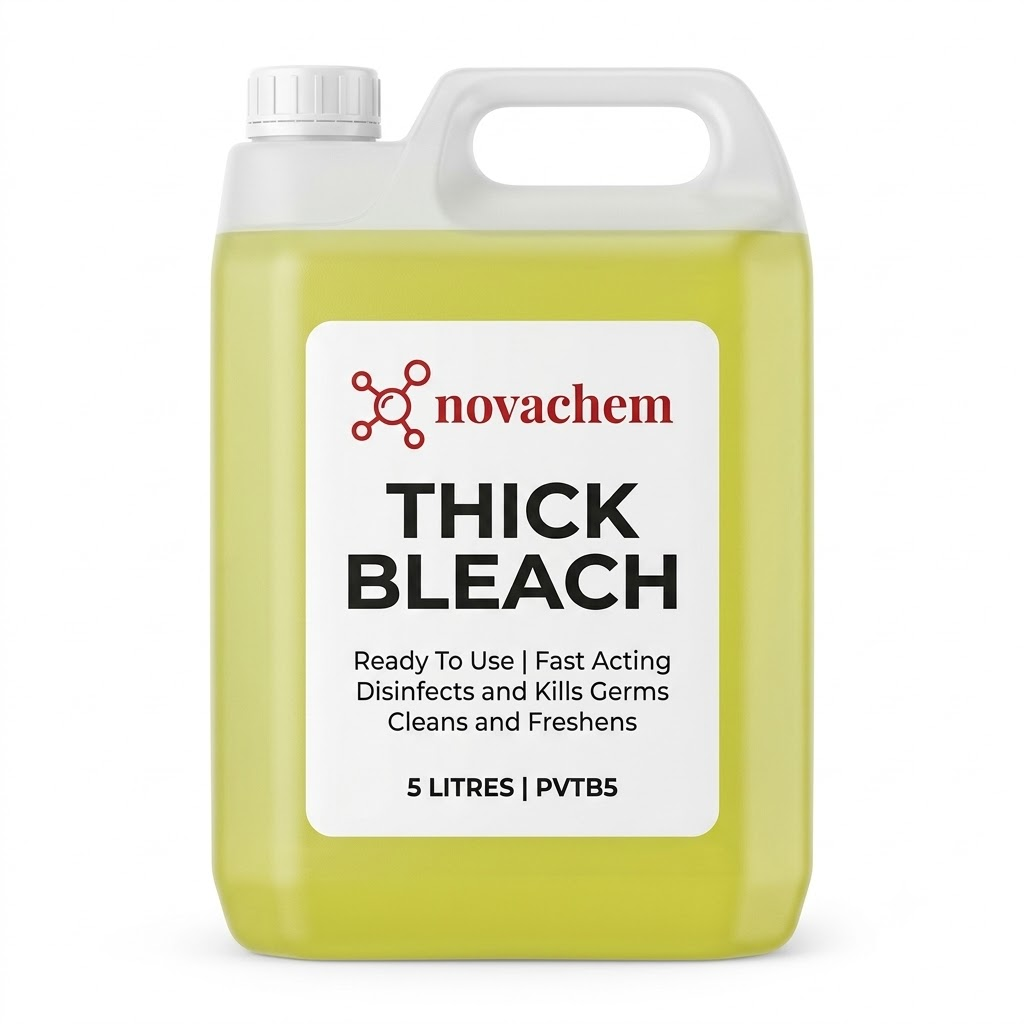
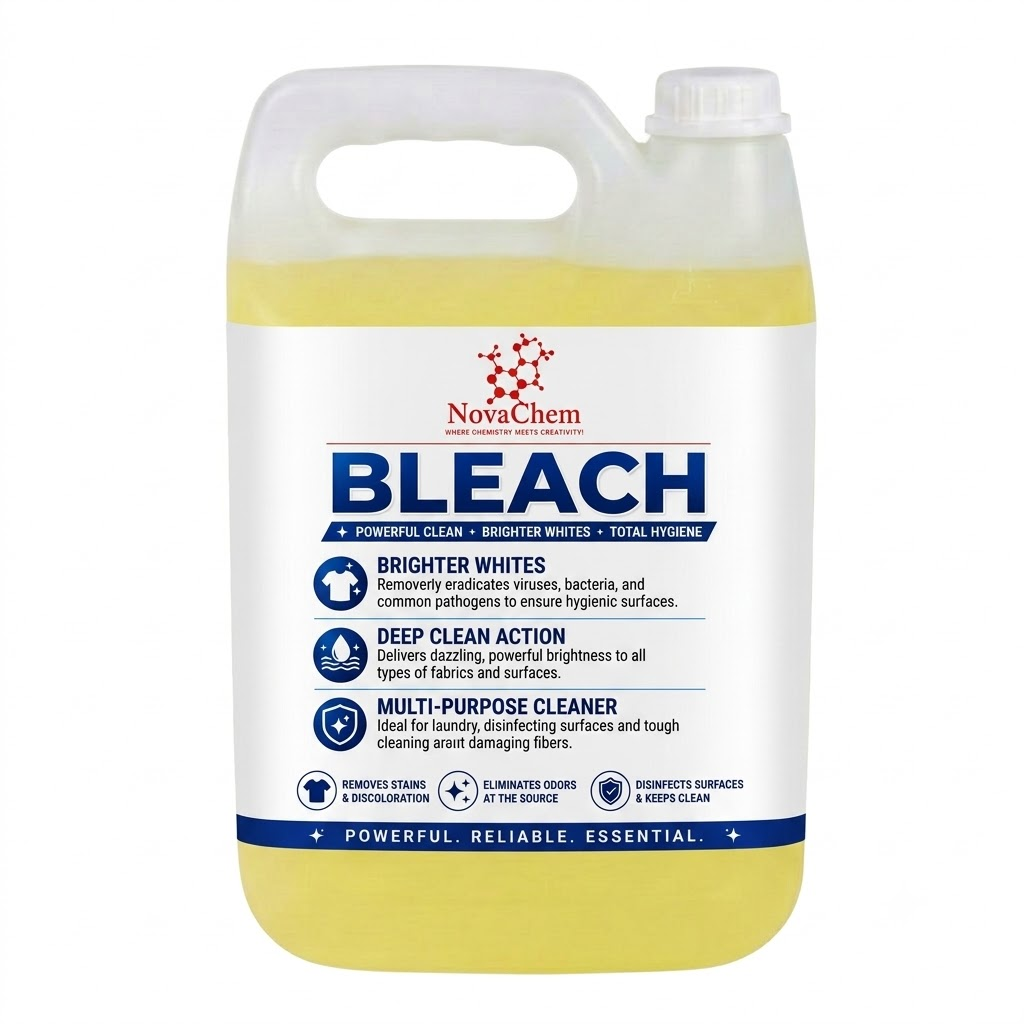
fix: update product descriptions for Laundry Liquid and Shower Shampoo

diff --git a/novachem-site/catalogue.html b/novachem-site/catalogue.html
@@ -696,7 +696,7 @@
         </article>
 
         <article class="product-card" data-category="laundry"
-          data-full-desc="Laundry Liquid. Additional performance details and wash guidance will be added soon."
+          data-full-desc="<p>This cleaning product is a concentrated liquid detergent designed to replace washing powder. It can be used through the conventional drawer method or through a dosing unit. Liquid laundry is a great choice for cleaning clothes and linen. This cleaning chemical will not clog up the machine drawer and less is used than conventional washing powder.</p><p><strong>Key Features</strong></p><ul><li>Concentrated liquid detergent that replaces washing powder</li><li>Suitable for both drawer method and dosing units</li><li>Will not clog up the machine drawer</li><li>Uses less product than conventional washing powder</li><li>Great for cleaning clothes and linen</li></ul><p><strong>Directions:</strong> Use approximately 50-60 ml for a 5kg laundry load.</p><p><strong>Storage &amp; Safety:</strong> This is a very safe product to use. As with all cleaning and fragranced products, do not ingest and wear gloves if submerging hands for long and repeated times. If irritation occurs, seek medical advice. If ingested, seek medical attention. Please keep out of reach of children. Store in a cool, dry place. Keep out of pathways to avoid accidental spillage.</p>"
           data-uses="Household|Commercial|Laundry Services">
           <div class="media-block tone-light"><span class="product-category-tag tag-laundry">Laundry</span><img
               src="images/products/Laundry Liquid.jpg" alt="Laundry Liquid"></div>
@@ -735,7 +735,7 @@
         </article>
 
         <article class="product-card" data-category="hygiene"
-          data-full-desc="Shower Shampoo. Full body-wash and bathroom usage details will be added soon."
+          data-full-desc="<p>This shower foam soap is an economical, high-foaming, premium-quality body cleanser designed for everyday use in homes, hotels, gyms, spas, hospitals and other commercial facilities. Its rich, creamy foam effectively removes dirt, sweat, body oils and everyday impurities while leaving the skin feeling clean, refreshed and lightly fragranced. The carefully balanced formulation contains mild cleansing agents and conditioning ingredients that help maintain the skin's natural moisture, making it suitable for frequent use. It rinses off easily without leaving a sticky residue and is ideal for use in refillable shower dispensers or pump bottles.</p><p><strong>Key Features</strong></p><ul><li>Economical, high-foaming premium body cleanser</li><li>Rich, creamy foam removes dirt, sweat and body oils</li><li>Mild cleansing and conditioning agents maintain skin's natural moisture</li><li>Rinses off easily without leaving a sticky residue</li><li>Ideal for refillable shower dispensers or pump bottles</li></ul><p><strong>Directions:</strong> Apply a small amount (approximately 5&ndash;10 ml) to wet skin, lather well and rinse thoroughly with clean water.</p><p><strong>Storage &amp; Safety:</strong> This product is intended for external use only. Avoid contact with the eyes. If contact occurs, rinse immediately with plenty of clean water. Do not ingest. If swallowed, seek medical advice immediately. If skin irritation or an allergic reaction develops, discontinue use and consult a healthcare professional. Keep out of reach of children. Store in a cool, dry place away from direct sunlight and extreme temperatures. Ensure the container is tightly closed when not in use to maintain product quality. Clean up any spills immediately, as the product may make floors slippery.</p>"
           data-uses="Household|Hospitality|Healthcare">
           <div class="media-block tone-light"><span class="product-category-tag tag-hygiene">Hygiene</span><img
               src="images/products/Shower Shampoo.jpg" alt="Shower Shampoo"></div>